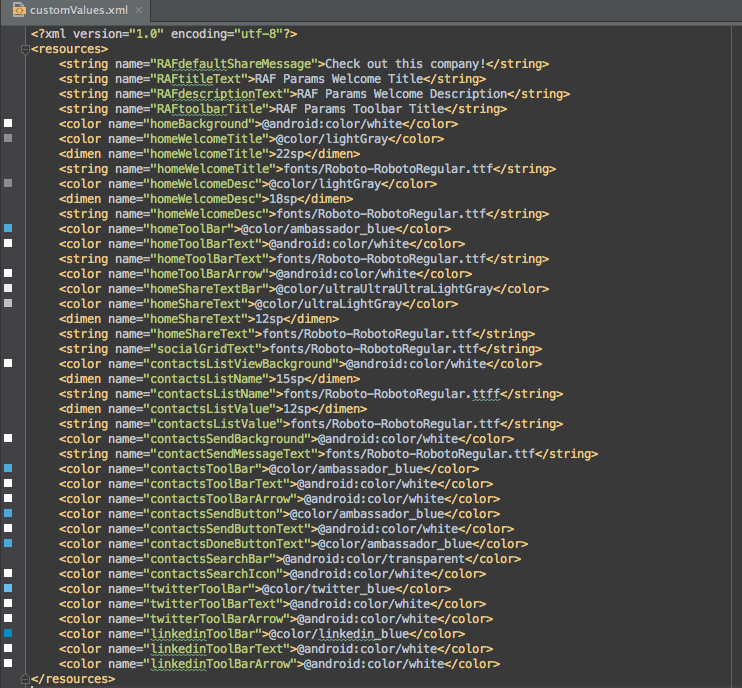
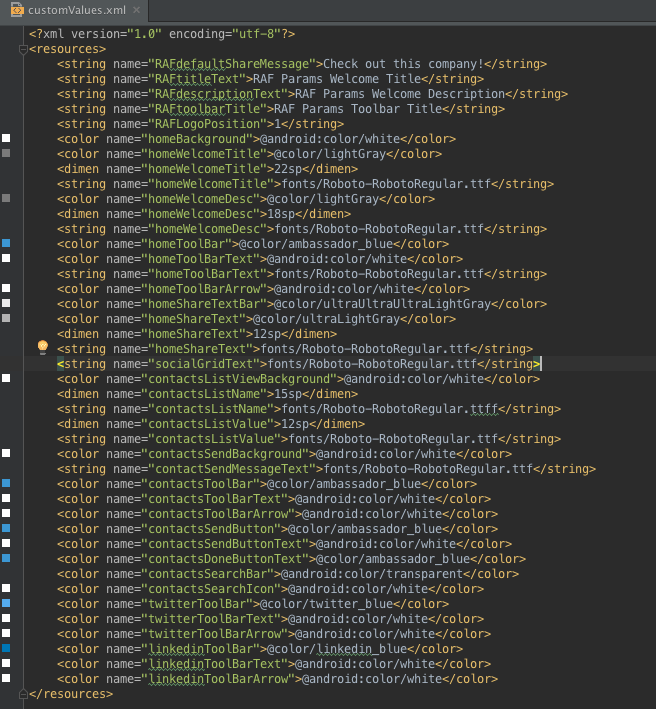
[#104633592] add screenshots to documentation

diff --git a/README.md b/README.md
@@ -229,4 +229,22 @@ First, rename your image file `raf_logo.png` (must be lowercase). Then place thi
 
 _Note_: To create properly-scaled images for differing device densities, you must create an image for each android density. To read more about this, visit <a href="http://developer.android.com/guide/practices/screens_support.html" target="1">Supporting Multiple Screens</a>. If you choose to do this, place each scaled image in the proper folder (drawable-xhdpi, drawable-xxhdpi, etc.). If you choose not to do this, Android will pull the image from the mdpi folder, however it may not properly scale depending on the density of the target device.
 
-The SDK will constrain your image to no bigger than 30dp (density-independent pixels). This is to prevent images of large height from pushing the content below it down and off the screen. There is no constraint on the width, however the image will not get cut off on either the right or the left.
+The SDK will constrain your image height to 30dp (density-independent pixels). This is to prevent images of large height from pushing the content below it down and off the screen. There is no constraint on the width, however the image will not get cut off on either the right or the left.
+
+To set the position of the logo, edit the following value in customValues.xml.
+
+<img src="screenshots/rafLogoPosition.png" />
+
+_Note_: The RAFLogoPosition element is ignored when no `raf_logo.png` is present in the drawable folders. Also, set the RAFLogoPosition to 0 to hide the logo.
+
+The following images show the logo in the various positions set in the custom values:
+
+<img src="screenshots/rafLogoPosition1.png" />
+
+<img src="screenshots/rafLogoPosition2.png" />
+
+<img src="screenshots/rafLogoPosition3.png" />
+
+<img src="screenshots/rafLogoPosition4.png" />
+
+<img src="screenshots/rafLogoPosition5.png" />
